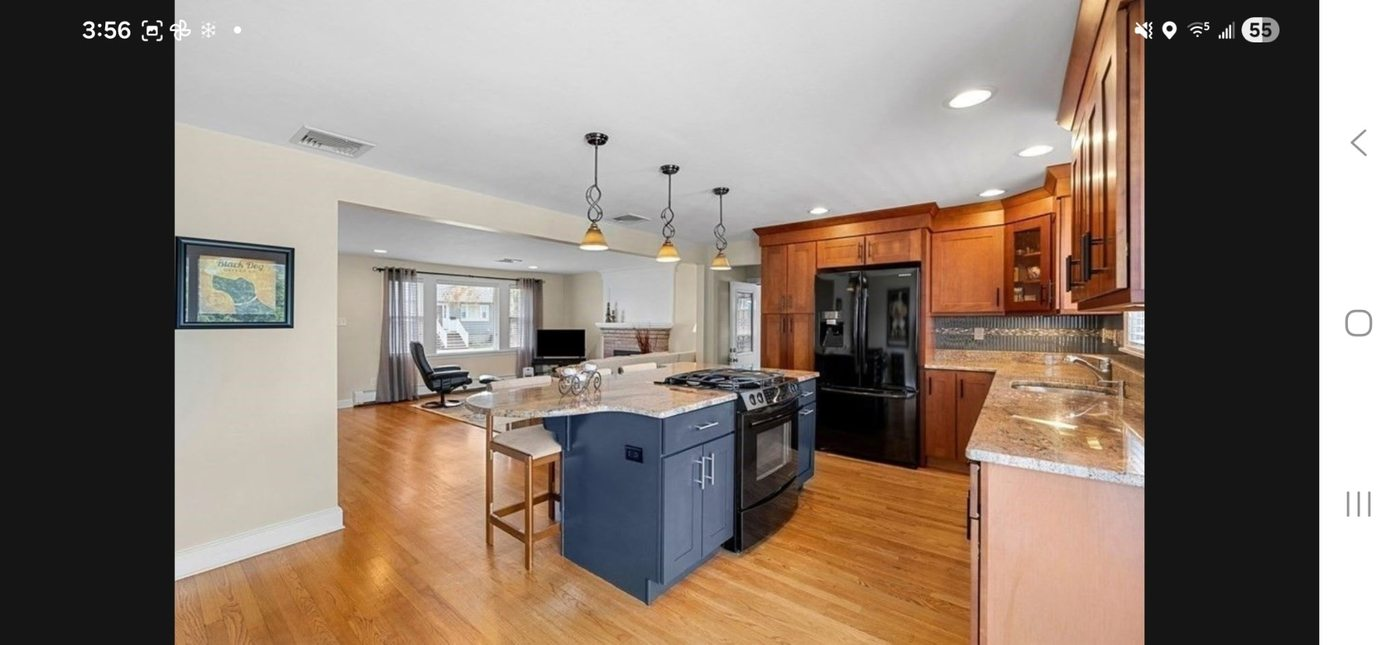
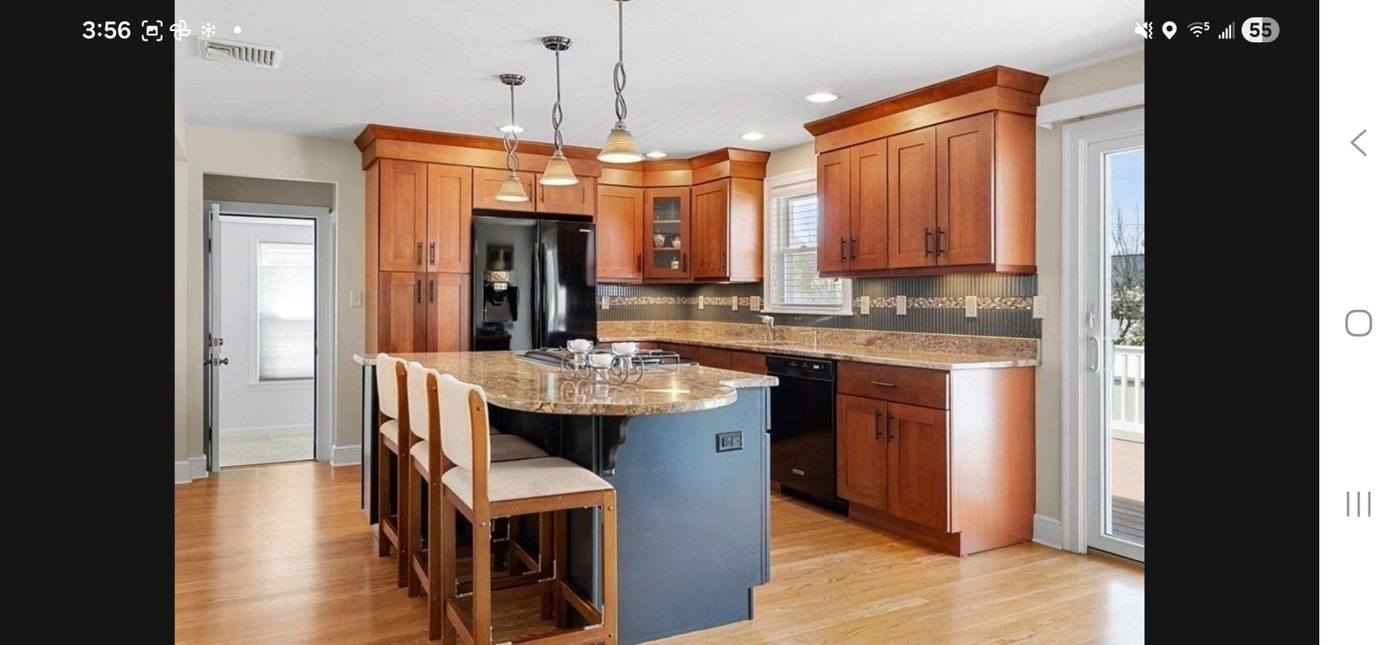
fix: design audit corrections
- Gallery: remove 4 placeholder cards, keep only K2 and K3 with real photos
- Gallery: increase card height 155→220px for better visibility
- Gallery: fix K3 after photo position (center 30%) to show more kitchen
- Gallery: add beforePos/afterPos support for precise image framing
- K2 Before: replace with professional photo (no phone status bar)
- Process: replace proc_spray with properly framed spray gun photo
- Nav: remove redundant "Home" link
- CSS: cache-buster v3

diff --git a/index.html b/index.html
@@ -13,7 +13,7 @@
   <script src="https://unpkg.com/@babel/standalone/babel.min.js"></script>
   <link rel="stylesheet" href="https://unpkg.com/leaflet@1.9.4/dist/leaflet.css"/>
   <script src="https://unpkg.com/leaflet@1.9.4/dist/leaflet.js"></script>
-  <link rel="stylesheet" href="css/style.css?v=2"/>
+  <link rel="stylesheet" href="css/style.css?v=3"/>
   <!-- Netlify Identity (needed for Decap CMS login redirect) -->
   <script src="https://identity.netlify.com/v1/netlify-identity-widget.js"></script>
   <script>
@@ -58,7 +58,7 @@ const DEFAULT = {
 /* ── NAV ── */
 function Nav() {
   const { site } = useContent();
-  const links = [['Home','#'],['Services','#services'],['Portfolio','#portfolio'],['Process','#process'],['Service Areas','#service-areas'],['Contact','#contact']];
+  const links = [['Services','#services'],['Portfolio','#portfolio'],['Process','#process'],['Service Areas','#service-areas'],['Contact','#contact']];
   const [menuOpen, setMenuOpen] = React.useState(false);
 
   React.useEffect(() => {
@@ -298,12 +298,8 @@ function Services() {
 /* ── GALLERY ── */
 function Gallery() {
   const projects = [
-    { from:'Cherry Oak', to:'Matte White', afterBg:'#F5F3EE', material:'Kitchen 2 — Shaker doors', beforeImg:'k2_bef.jpg', afterImg:'k2_aft.jpg' },
-    { from:'Dark Espresso', to:'Matte White', afterBg:'#F8F6F1', material:'Kitchen 3 — Raised panel', beforeImg:'k3_bef.jpg', afterImg:'k3_aft.jpg' },
-    { from:'Oak',       to:'Matte White', afterBg:'#FAFAF8', material:'Veneer doors'     },
-    { from:'Dark Wood', to:'Navy Blue',   afterBg:'#1E2D4A', material:'MDF doors'        },
-    { from:'Dark Wood', to:'Navy Blue',   afterBg:'#243352', material:'Solid wood'       },
-    { from:'Dark Wood', to:'Sage Green',  afterBg:'#6B7A54', material:'MDF doors'        },
+    { from:'Cherry Oak', to:'Matte White', material:'Kitchen 2 — Shaker doors', beforeImg:'k2_bef.jpg', beforePos:'center', afterImg:'k2_aft.jpg', afterPos:'center' },
+    { from:'Dark Espresso', to:'Matte White', material:'Kitchen 3 — Raised panel', beforeImg:'k3_bef.jpg', beforePos:'center', afterImg:'k3_aft.jpg', afterPos:'center 30%' },
   ];
   return (
     <section className="sec gallery-sec" id="portfolio">
@@ -314,10 +310,10 @@ function Gallery() {
           {projects.map((p,i)=>(
             <div className="ba-card" key={i}>
               <div className="ba-split">
-                <div className="ba-before-img" style={p.beforeImg ? {background:`url('${p.beforeImg}') center/cover no-repeat`} : {}}>
+                <div className="ba-before-img" style={p.beforeImg ? {background:`url('${p.beforeImg}') ${p.beforePos||'center'}/cover no-repeat`} : {}}>
                   <span className="ba-img-lbl">Before</span>
                 </div>
-                <div className="ba-after-img" style={p.afterImg ? {background:`url('${p.afterImg}') center/cover no-repeat`} : {background:`linear-gradient(145deg,${p.afterBg}bb,${p.afterBg})`}}>
+                <div className="ba-after-img" style={p.afterImg ? {background:`url('${p.afterImg}') ${p.afterPos||'center'}/cover no-repeat`} : {background:`linear-gradient(145deg,${p.afterBg}bb,${p.afterBg})`}}>
                   <span className="ba-img-lbl">After</span>
                 </div>
               </div>
@@ -496,7 +492,7 @@ function MapContact() {
 /* ── FOOTER ── */
 function Footer() {
   const { site } = useContent();
-  const links = [['Home','#'],['Services','#services'],['Portfolio','#portfolio'],['Process','#process'],['Service Areas','#service-areas'],['Contact','#contact']];
+  const links = [['Services','#services'],['Portfolio','#portfolio'],['Process','#process'],['Service Areas','#service-areas'],['Contact','#contact']];
   return (
     <footer className="footer">
       <div className="ft-top">

diff --git a/css/style.css b/css/style.css
@@ -85,7 +85,7 @@ body{font-family:var(--sans);color:var(--text);background:var(--bg);-webkit-font
 .gallery-sec{background:var(--bg2)}
 .ba-grid{display:grid;grid-template-columns:repeat(3,1fr);gap:18px}
 .ba-card{background:#fff;border-radius:var(--r);overflow:hidden;box-shadow:0 2px 12px rgba(0,0,0,.07)}
-.ba-split{display:grid;grid-template-columns:1fr 1fr;height:155px}
+.ba-split{display:grid;grid-template-columns:1fr 1fr;height:220px}
 .ba-before-img{background:linear-gradient(145deg,#7A5030,#5C3820);background-image:repeating-linear-gradient(90deg,transparent,transparent 8px,rgba(0,0,0,.05) 8px,rgba(0,0,0,.05) 9px);display:flex;align-items:flex-end;padding:8px}
 .ba-after-img{display:flex;align-items:flex-end;justify-content:flex-end;padding:8px}
 .ba-img-lbl{font-size:9px;font-weight:700;letter-spacing:.1em;text-transform:uppercase;background:rgba(0,0,0,.48);color:#fff;padding:3px 7px;border-radius:3px}
@@ -213,7 +213,7 @@ body{font-family:var(--sans);color:var(--text);background:var(--bg);-webkit-font
   .svc-icon{width:60px;height:60px}
 
   /* Heights */
-  .ba-split{height:180px}
+  .ba-split{height:220px}
   .mc-map{height:260px}
 
   /* Sections */
@@ -235,7 +235,7 @@ body{font-family:var(--sans);color:var(--text);background:var(--bg);-webkit-font
   .svc-icon{width:52px;height:52px}
   .svc-step{max-width:100%}
   .ba-grid{grid-template-columns:1fr}
-  .ba-split{height:200px}
+  .ba-split{height:220px}
   .mc-map{height:200px}
   .btn-hero{font-size:12px;padding:11px 18px}
   .sec{padding:44px 16px}
